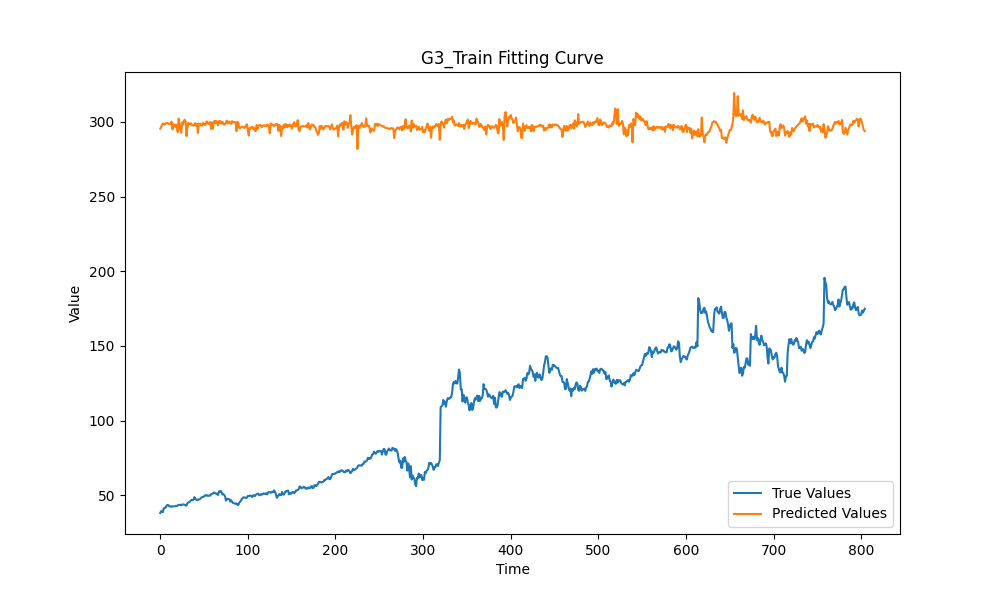
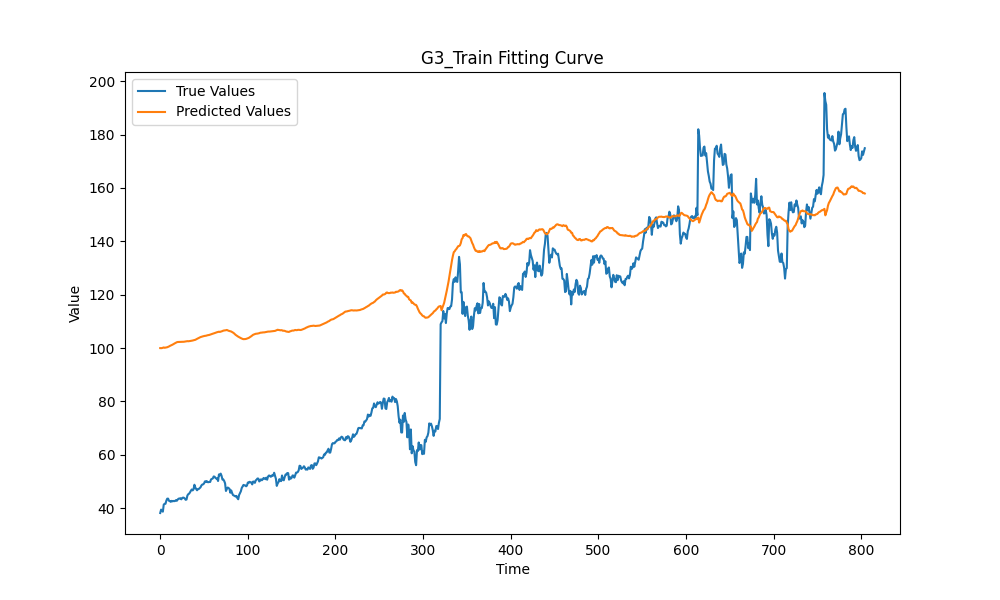
fixed problem of drawing loss figure, evaluation bugs, more about fitting in training process, tested in both distill and refine

diff --git a/utils/multiGAN_trainer.py b/utils/multiGAN_trainer.py
@@ -44,8 +44,8 @@ def train_multi_gan(generators, discriminators, dataloaders,
     schedulers = [lr_scheduler.ReduceLROnPlateau(optimizer, mode='min', factor=0.1, patience=16, min_lr=1e-7)
                   for optimizer in optimizers_G]
 
-    optimizers_D = [torch.optim.Adam(discriminator.parameters(), lr=d_learning_rate, betas=(0.9, 0.999))
-                    for discriminator in discriminators]
+    optimizers_D = [torch.optim.Adam(model.parameters(), lr=d_learning_rate, betas=(0.9, 0.999))
+                    for model in discriminators]
 
     best_epoch = [-1 for _ in range(N)]  #
 
@@ -124,9 +124,8 @@ def train_multi_gan(generators, discriminators, dataloaders,
             Y.append(y_last.to(device))
 
             for i in range(N):
-                optimizers_D[i].step()
-                discriminators[i].train()
                 generators[i].eval()
+                discriminators[i].train()
 
             loss_D, lossD_G = discriminate_fake(X, Y,
                                                 generators, discriminators,
@@ -150,8 +149,11 @@ def train_multi_gan(generators, discriminators, dataloaders,
 
             # TODO: to see whether there is need to add together
 
-            # for loss in loss_D:
-            #     loss.backward(retain_graph=True)
+            # for i, loss in enumerate(loss_D):
+            #     if i != N - 1:
+            #         loss.backward(retain_graph=True)
+            #     else:
+            #         loss.backward()
 
             loss_D.sum(dim=0).backward()
 
@@ -175,6 +177,11 @@ def train_multi_gan(generators, discriminators, dataloaders,
             for optimizer_G in optimizers_G:
                 optimizer_G.zero_grad()
 
+            # for i, loss in enumerate(loss_G):
+                # if i != N - 1:
+                #     loss.backward(retain_graph=True)
+                # else:
+                #     loss.backward()
             loss_G.sum(dim=0).backward()
 
             for optimizer_G in optimizers_G:
@@ -255,15 +262,15 @@ def train_multi_gan(generators, discriminators, dataloaders,
     plot_discriminator_losses(data_D, output_dir)
 
     # overall G&D
-    visualize_overall_loss(data_G[-1][:], data_D[-1][:], output_dir)
+    visualize_overall_loss(data_G[-1][:][:epoch], data_D[-1][:][:epoch], output_dir)
 
-    # hist_MSE_G = [[] for _ in range(N)]
-    # hist_val_loss = [[] for _ in range(N)]
-    # for i in range(N):
-    #     hist_MSE_G[i] = hists_dict[f"MSE_G{i+1}"]
-    #     hist_val_loss[i] = hists_dict[f"val_G{i+1}"]
-    #
-    # plot_mse_loss(hist_MSE_G, hist_val_loss, epoch, output_dir)
+    hist_MSE_G = [[] for _ in range(N)]
+    hist_val_loss = [[] for _ in range(N)]
+    for i in range(N):
+        hist_MSE_G[i] = hists_dict[f"MSE_G{i+1}"][:epoch]
+        hist_val_loss[i] = hists_dict[f"val_G{i+1}"][:epoch]
+
+    plot_mse_loss(hist_MSE_G, hist_val_loss, epoch, output_dir)
 
     for i in range(N):
         print(f"G{i + 1} best epoch: ", best_epoch[i])
@@ -283,7 +290,7 @@ def discriminate_fake(X, Y,
     N = len(generators)
 
     # discriminator output for real data
-    dis_real_outputs = [discriminator(y) for (discriminator, y) in zip(discriminators, Y)]
+    dis_real_outputs = [model(y) for (model, y) in zip(discriminators, Y)]
     real_labels = [torch.ones_like(dis_real_output).to(device) for dis_real_output in dis_real_outputs]
     fake_data_G = [generator(x) for (generator, x) in zip(generators, X)]  # cannot be omitted
 
@@ -313,7 +320,7 @@ def discriminate_fake(X, Y,
             elif i > j:
                 fake_data_GtoD[f"G{i + 1}ToD{j + 1}"] = fake_data_temp_G[i][:, window_sizes[i] - window_sizes[j]:, :]
             elif i == j:
-                fake_data_GtoD[f"G{i + 1}ToD{j + 1}"] = fake_data_temp_G[i][:, window_sizes[i] - window_sizes[j]:, :]
+                fake_data_GtoD[f"G{i + 1}ToD{j + 1}"] = fake_data_temp_G[i]
 
     fake_labels = [torch.zeros_like(real_label).to(device) for real_label in real_labels]
 
@@ -323,7 +330,8 @@ def discriminate_fake(X, Y,
         for j in range(N):
             out = discriminators[i](fake_data_GtoD[f"G{j + 1}ToD{i + 1}"])
             row.append(out)
-        row.append(lossD_real[i])
+        if mode == "train_D":
+            row.append(lossD_real[i])
         dis_fake_outputD.append(row)  # dis_fake_outputD[i][j] = Di(Gj)
 
     if mode == "train_D":
@@ -347,7 +355,7 @@ def discriminate_fake(X, Y,
     if mode == "train_G":
         loss_mse_G = [F.mse_loss(fake_data.squeeze(), y[:, -1, :].squeeze()) for (fake_data, y) in zip(fake_data_G, Y)]
         loss_matrix = loss_mse_G
-        loss_DorG = loss_DorG + torch.tensor(loss_matrix).to(device)
+        loss_DorG = loss_DorG + torch.stack(loss_matrix).to(device)
 
     return loss_DorG, loss_matrix
 

diff --git a/run_all_triple_gan.py b/run_all_triple_gan.py
@@ -13,8 +13,8 @@ def run_experiments(data_path, output_dir, window_size1, window_size2, window_si
 
     # 定义特征和目标列的组合
 
-    feature_columns = list(range(2,56))
-    # feature_columns = []
+    # feature_columns = list(range(2,56))
+    feature_columns = []
     # feature_columns = list(range(35,36))
     # target_columns = [[i] for i in range(1, 22)]
     target_columns = [list(range(1, 2))]
@@ -75,7 +75,7 @@ if __name__ == "__main__":
     parser.add_argument('--distill', type=bool, help="Whether to do distillation", default=True)
     parser.add_argument('--device', type=int, help="Window size for third dimension", default=0)
 
-    parser.add_argument('--num_epoch', type=int, help="epoch", default=1)
+    parser.add_argument('--num_epoch', type=int, help="epoch", default=50)
     parser.add_argument('--batch_size', type=int, help="Batch size for training", default=64)
     parser.add_argument('--train_split', type=float, help="Train-test split ratio", default=0.8)
     parser.add_argument('--random_seed', type=int, help="Random seed for reproducibility", default=3407)

diff --git a/run_parallel_triple_gan.py b/run_parallel_triple_gan.py
@@ -98,7 +98,7 @@ if __name__ == "__main__":
     parser.add_argument('--window_size2', type=int, default=10)
     parser.add_argument('--window_size3', type=int, default=20)
     parser.add_argument('--distill', type=bool, default=False)
-    parser.add_argument('--num_epoch', type=int, default=10000)
+    parser.add_argument('--num_epoch', type=int, default=5)
     parser.add_argument('--batch_size', type=int, default=64)
     parser.add_argument('--train_split', type=float, default=0.8)
     parser.add_argument('--random_seed', type=int, default=3407)
